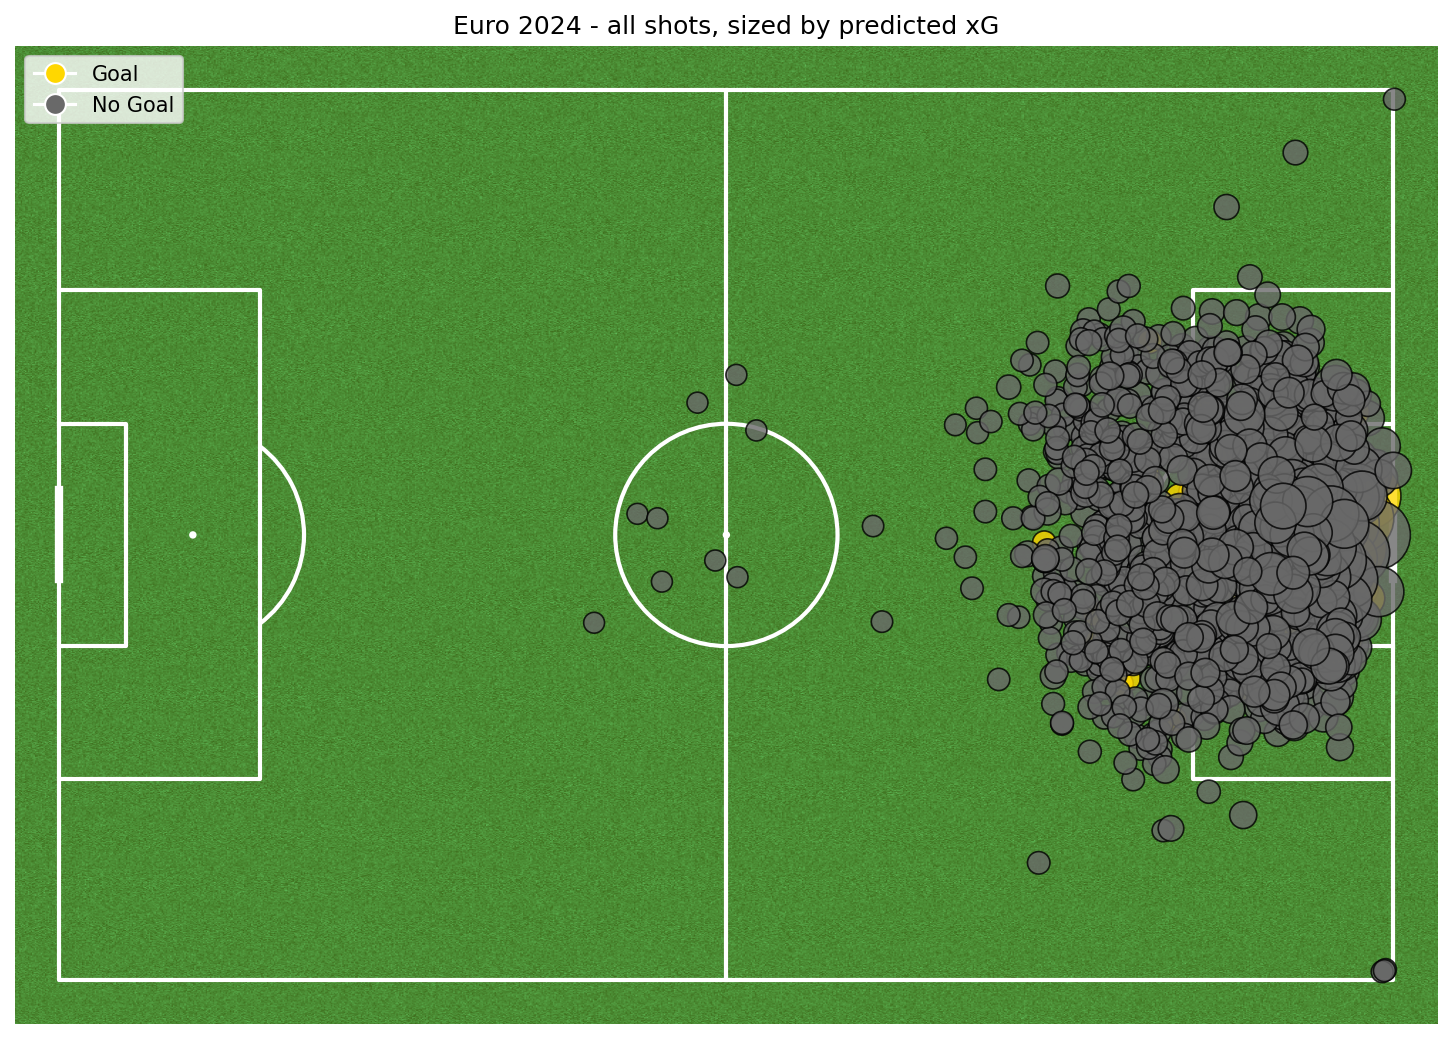
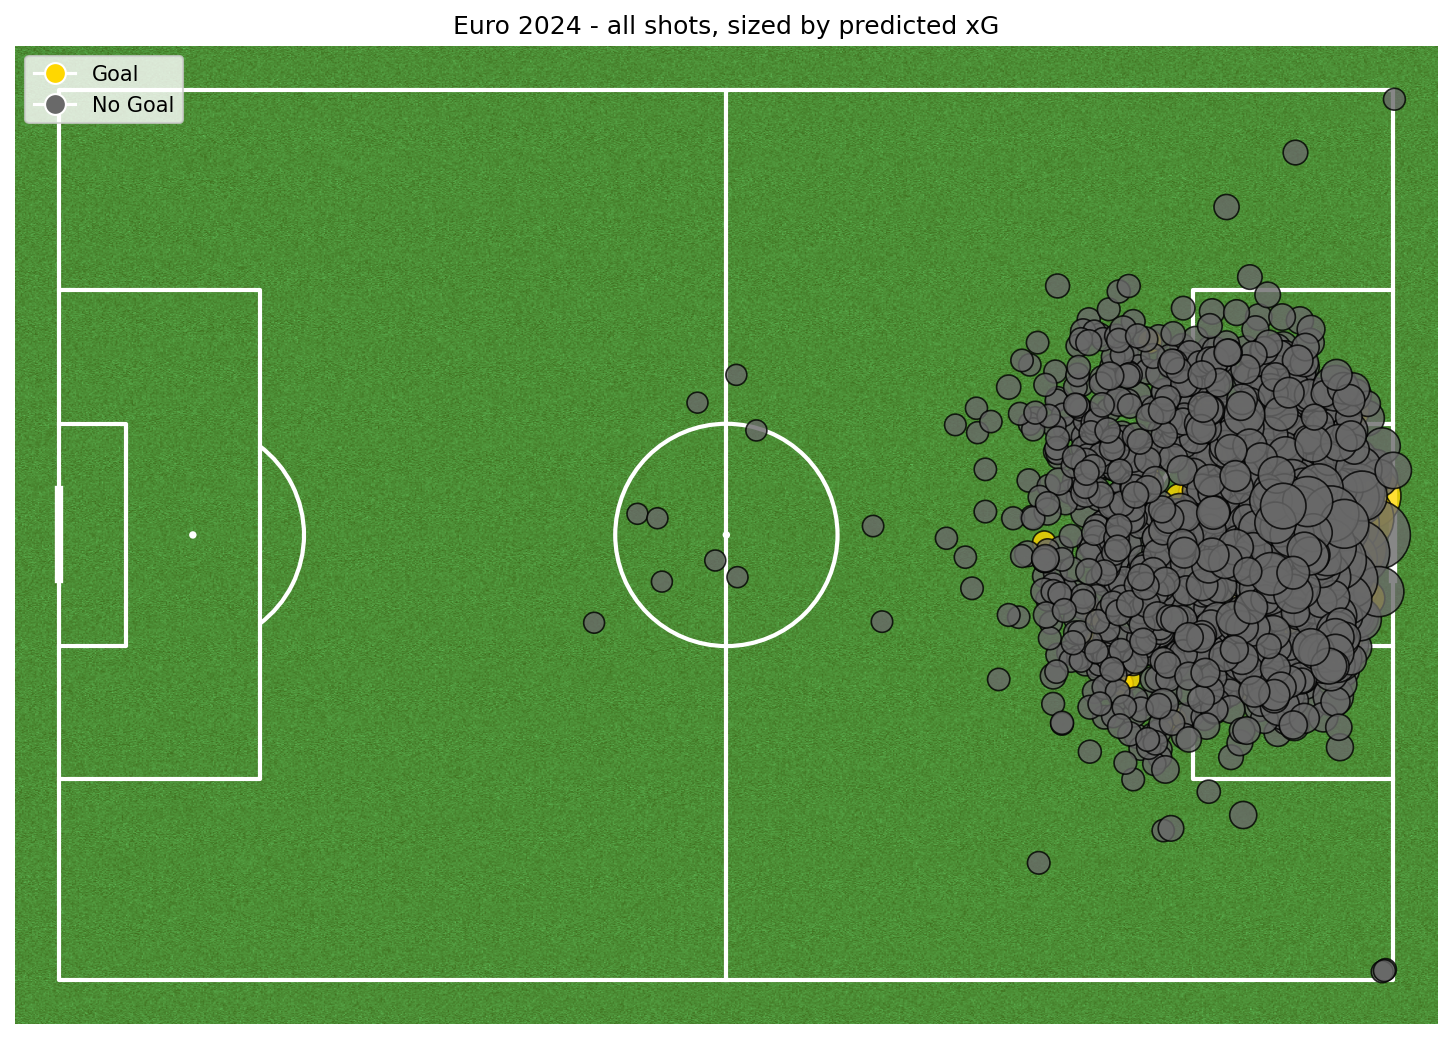
Make the shot map render deterministically
mplsoccer paints its 'grass' pitch texture from the global numpy RNG, so
outputs/euro2024_shot_map.png changed on every pipeline run with no data
change. plot_shot_map now seeds only the pitch draw and restores the
caller's RNG state; tests/test_visualisation.py guards both.

diff --git a/src/visualisation.py b/src/visualisation.py
@@ -5,8 +5,12 @@ Session S7 (radar charts, PCA scatter plot).
 """
 
 import matplotlib.pyplot as plt
+import numpy as np
 import pandas as pd
 from mplsoccer import Pitch, Radar
+
+# Fixed seed for mplsoccer's random grass texture, so the same shots always render the same PNG.
+GRASS_TEXTURE_SEED = 0
 
 OUTCOME_COLORS = {"Goal": "gold", "No Goal": "dimgrey"}
 
@@ -27,12 +31,20 @@ def plot_shot_map(shots, predicted_xg, title=None, ax=None):
         matplotlib.axes.Axes: the axes the shots were drawn on.
     """
     pitch = Pitch(pitch_type="statsbomb", pitch_color="grass", line_color="white")
-    if ax is None:
-        _, ax = pitch.draw(figsize=(10, 7))
-    else:
-        # Draw the pitch markings onto the caller's axes too — otherwise a passed-in
-        # ax that wasn't already a pitch would get bare scatter points on blank axes.
-        pitch.draw(ax=ax)
+    # mplsoccer paints the "grass" texture from the *global* np.random.normal, so every render
+    # came out with different pixels — the committed outputs/euro2024_shot_map.png changed on
+    # every pipeline run with no data change. Seed just this draw, then restore the caller's RNG.
+    rng_state = np.random.get_state()
+    np.random.seed(GRASS_TEXTURE_SEED)
+    try:
+        if ax is None:
+            _, ax = pitch.draw(figsize=(10, 7))
+        else:
+            # Draw the pitch markings onto the caller's axes too — otherwise a passed-in
+            # ax that wasn't already a pitch would get bare scatter points on blank axes.
+            pitch.draw(ax=ax)
+    finally:
+        np.random.set_state(rng_state)
 
     outcomes = shots["is_goal"].map({True: "Goal", False: "No Goal"})
     sizes = 100 + predicted_xg * 1500

diff --git a/tests/test_visualisation.py b/tests/test_visualisation.py
@@ -1,0 +1,43 @@
+"""Regression tests for src/visualisation.py output determinism.
+
+The pipeline's PNGs are committed (README embeds them), so a chart that renders different
+pixels for identical input creates a diff on every rebuild and hides real changes.
+"""
+
+import io
+
+import matplotlib
+
+matplotlib.use("Agg")
+
+import matplotlib.pyplot as plt  # noqa: E402
+import numpy as np  # noqa: E402
+import pandas as pd  # noqa: E402
+
+from src.visualisation import plot_shot_map  # noqa: E402
+
+
+def _render_shot_map():
+    shots = pd.DataFrame({"x": [100.0, 110.0, 95.0], "y": [40.0, 35.0, 50.0], "is_goal": [True, False, False]})
+    ax = plot_shot_map(shots, np.array([0.3, 0.1, 0.05]), title="test")
+    buffer = io.BytesIO()
+    ax.figure.savefig(buffer, format="png", dpi=50)
+    plt.close(ax.figure)
+    return buffer.getvalue()
+
+
+def test_shot_map_renders_identical_bytes_for_identical_input():
+    # mplsoccer's grass texture draws from the global numpy RNG; unseeded, these differed.
+    np.random.seed(1)
+    first = _render_shot_map()
+    np.random.seed(2)
+    second = _render_shot_map()
+    assert first == second
+
+
+def test_shot_map_leaves_the_callers_random_state_untouched():
+    np.random.seed(123)
+    expected = np.random.random()
+    np.random.seed(123)
+    _render_shot_map()
+    assert np.random.random() == expected

diff --git a/docs/PROGRESS.md b/docs/PROGRESS.md
@@ -129,6 +129,30 @@ restructure.
   `_cache_matches_datasets` compares the cached `competition_id`s with the config list and
   rebuilds on any mismatch. Two new tests cover the cases: a config that gained a tournament, and
   a legacy cache with no competition ids.
+- *5b, women's tournaments pulled and scored:* new `Dataset.gender` field, plus
+  `WOMENS_WORLD_CUP_2023`. Both women's tournaments are in `GENERALISATION_TEST_SETS`. The new
+  staleness check rebuilt the table on its own; there was no 429 this time. 7,215 held-out shots
+  across 6 tournaments.
+  - ROC-AUC: WWC 2023 **0.777**, Women's EURO 2025 **0.763**, inside the men's 0.763–0.808 band.
+  - Goals ÷ xG: 0.98 and 0.83, so no women's-specific under-prediction. The Women's EURO Brier
+    (0.092, worst) reflects its higher base goal rate (logged in ML_LEARNING_LOG.md).
+  - **Correction:** "EURO 2024 is the floor" had been false since July, because Copa América's
+    0.763 is lower. Fixed in README, MODULES, PITCH, CLAUDE.md and the app's copy (whose
+    hardcoded "4 tournaments" now reads from `metrics.json`).
+  - The headline 0.765 and `metrics.json`'s `xg` block are unchanged.
+- *5c, a non-deterministic PNG:* `euro2024_shot_map.png` changed on every pipeline run. mplsoccer
+  paints the "grass" pitch from the *global* `np.random`. `plot_shot_map` now seeds just that draw
+  and restores the caller's RNG state. Two runs now give identical hashes, and
+  `tests/test_visualisation.py` guards both properties.
+- *5d, the pin* (ROADMAP.md Phase 4e):
+  - New StatsBomb leagues checked: Liga F, Serie A Women and NWSL are full seasons; MLS 2023 is
+    Inter Miami only (6 matches).
+  - 360 probe on one match: 100% of shots have a freeze frame, 2.7 MB/match, ~800 MB for all six
+    360 datasets. `config.SETS_WITH_360` now derives from a new `ALL_DATASETS` (it used to skip
+    WC 2022/AFCON).
+  - External sources ranked: Understat, then the Wyscout public set, then PFF WC 2022 tracking.
+  - Two more backlog items in Phase 9: the Suárez market-value tiebreak (DATA.md's
+    spot-check claim was false), and the live demo sleeping.
 
 ---
 
